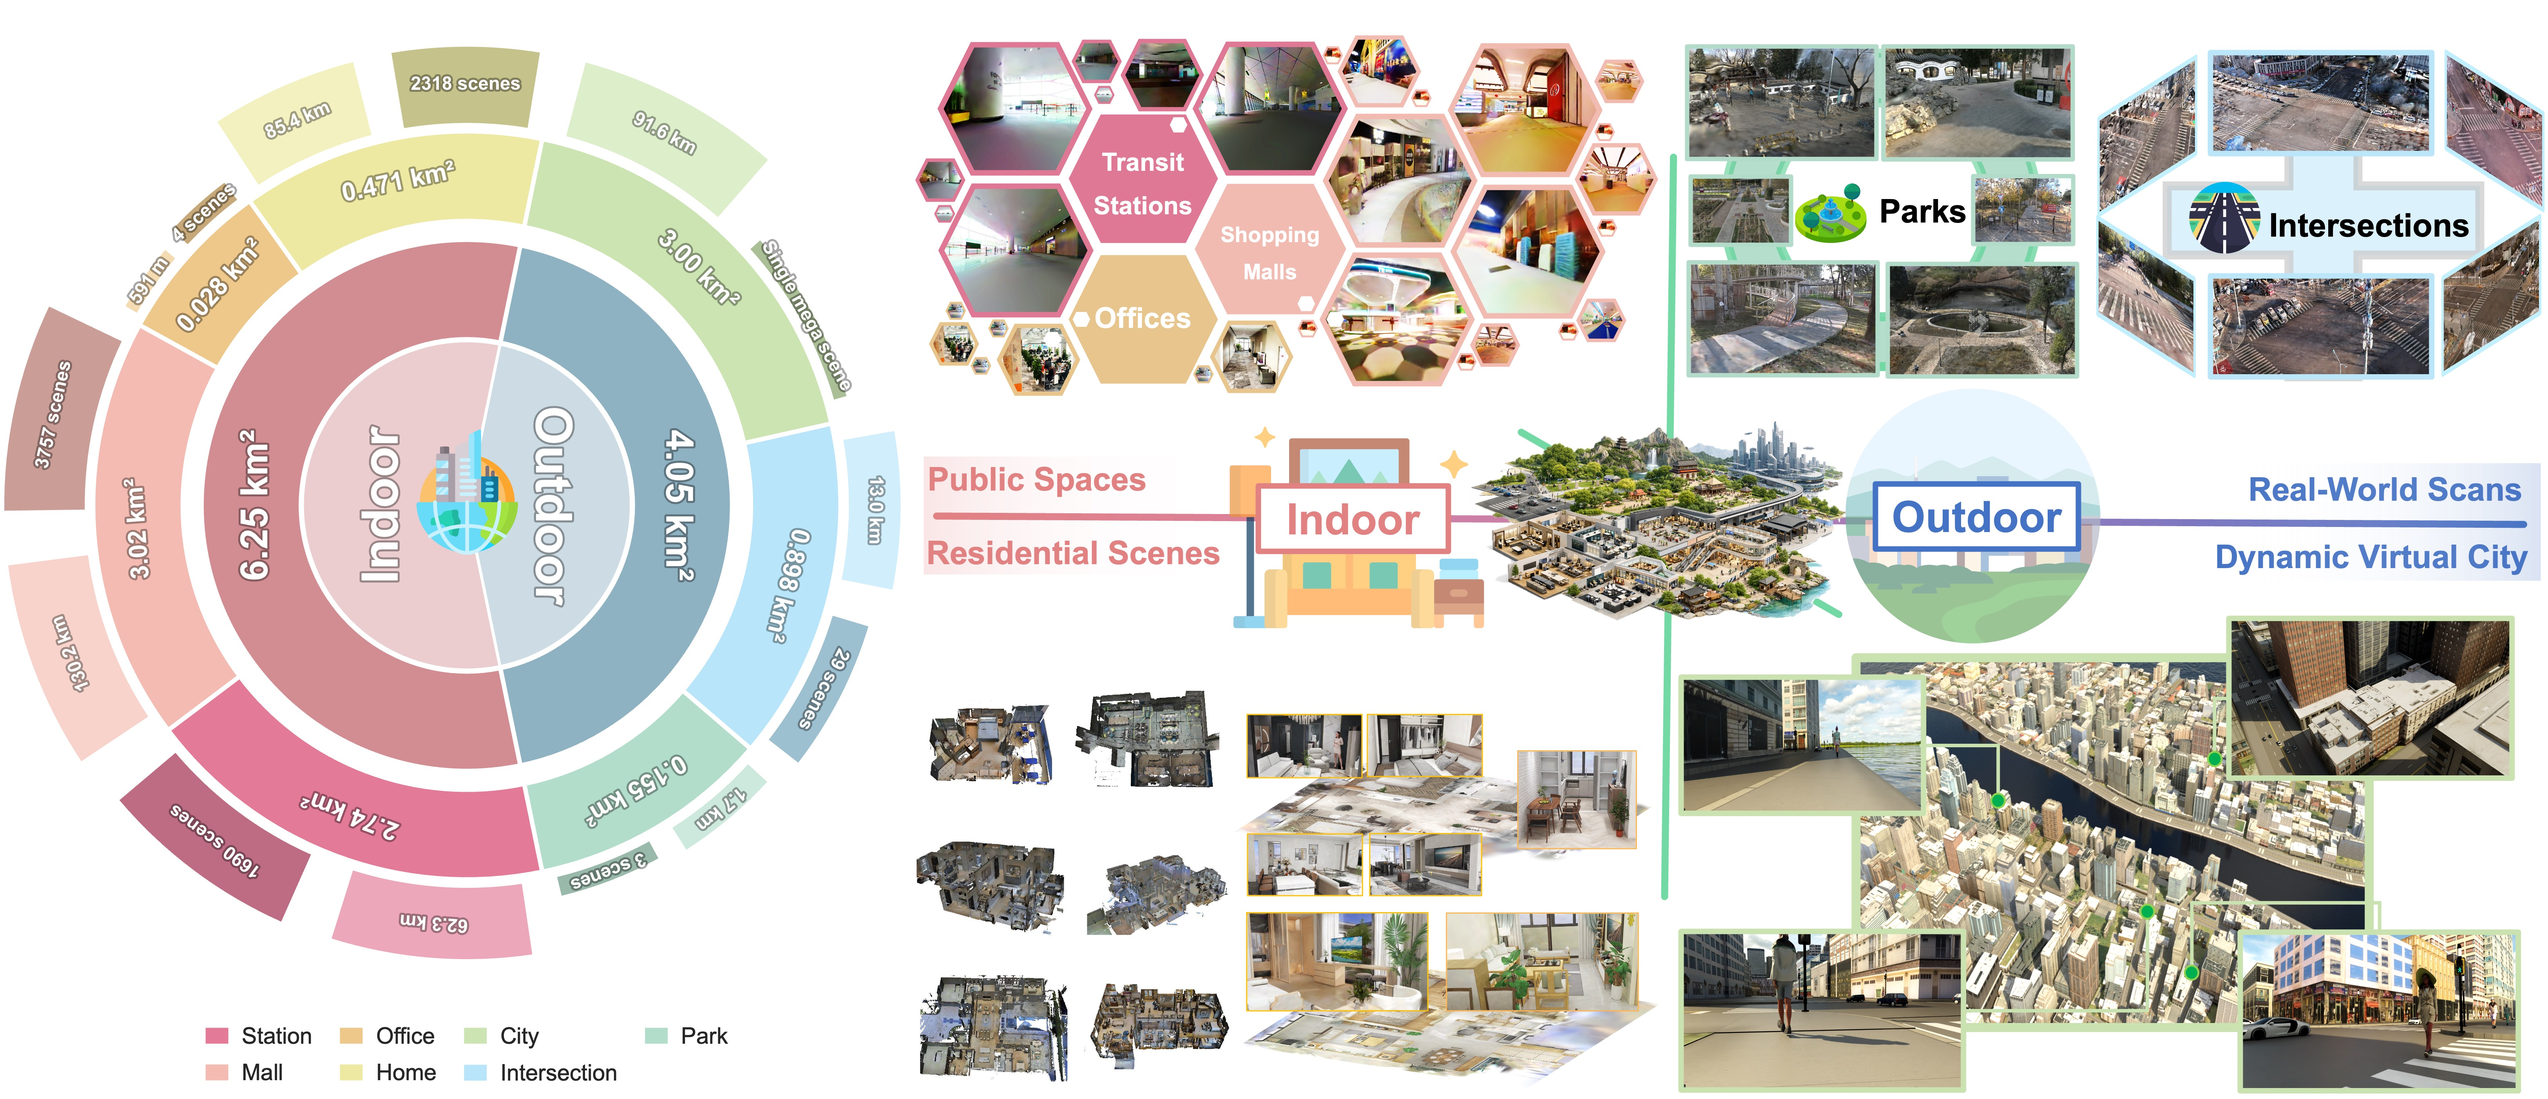
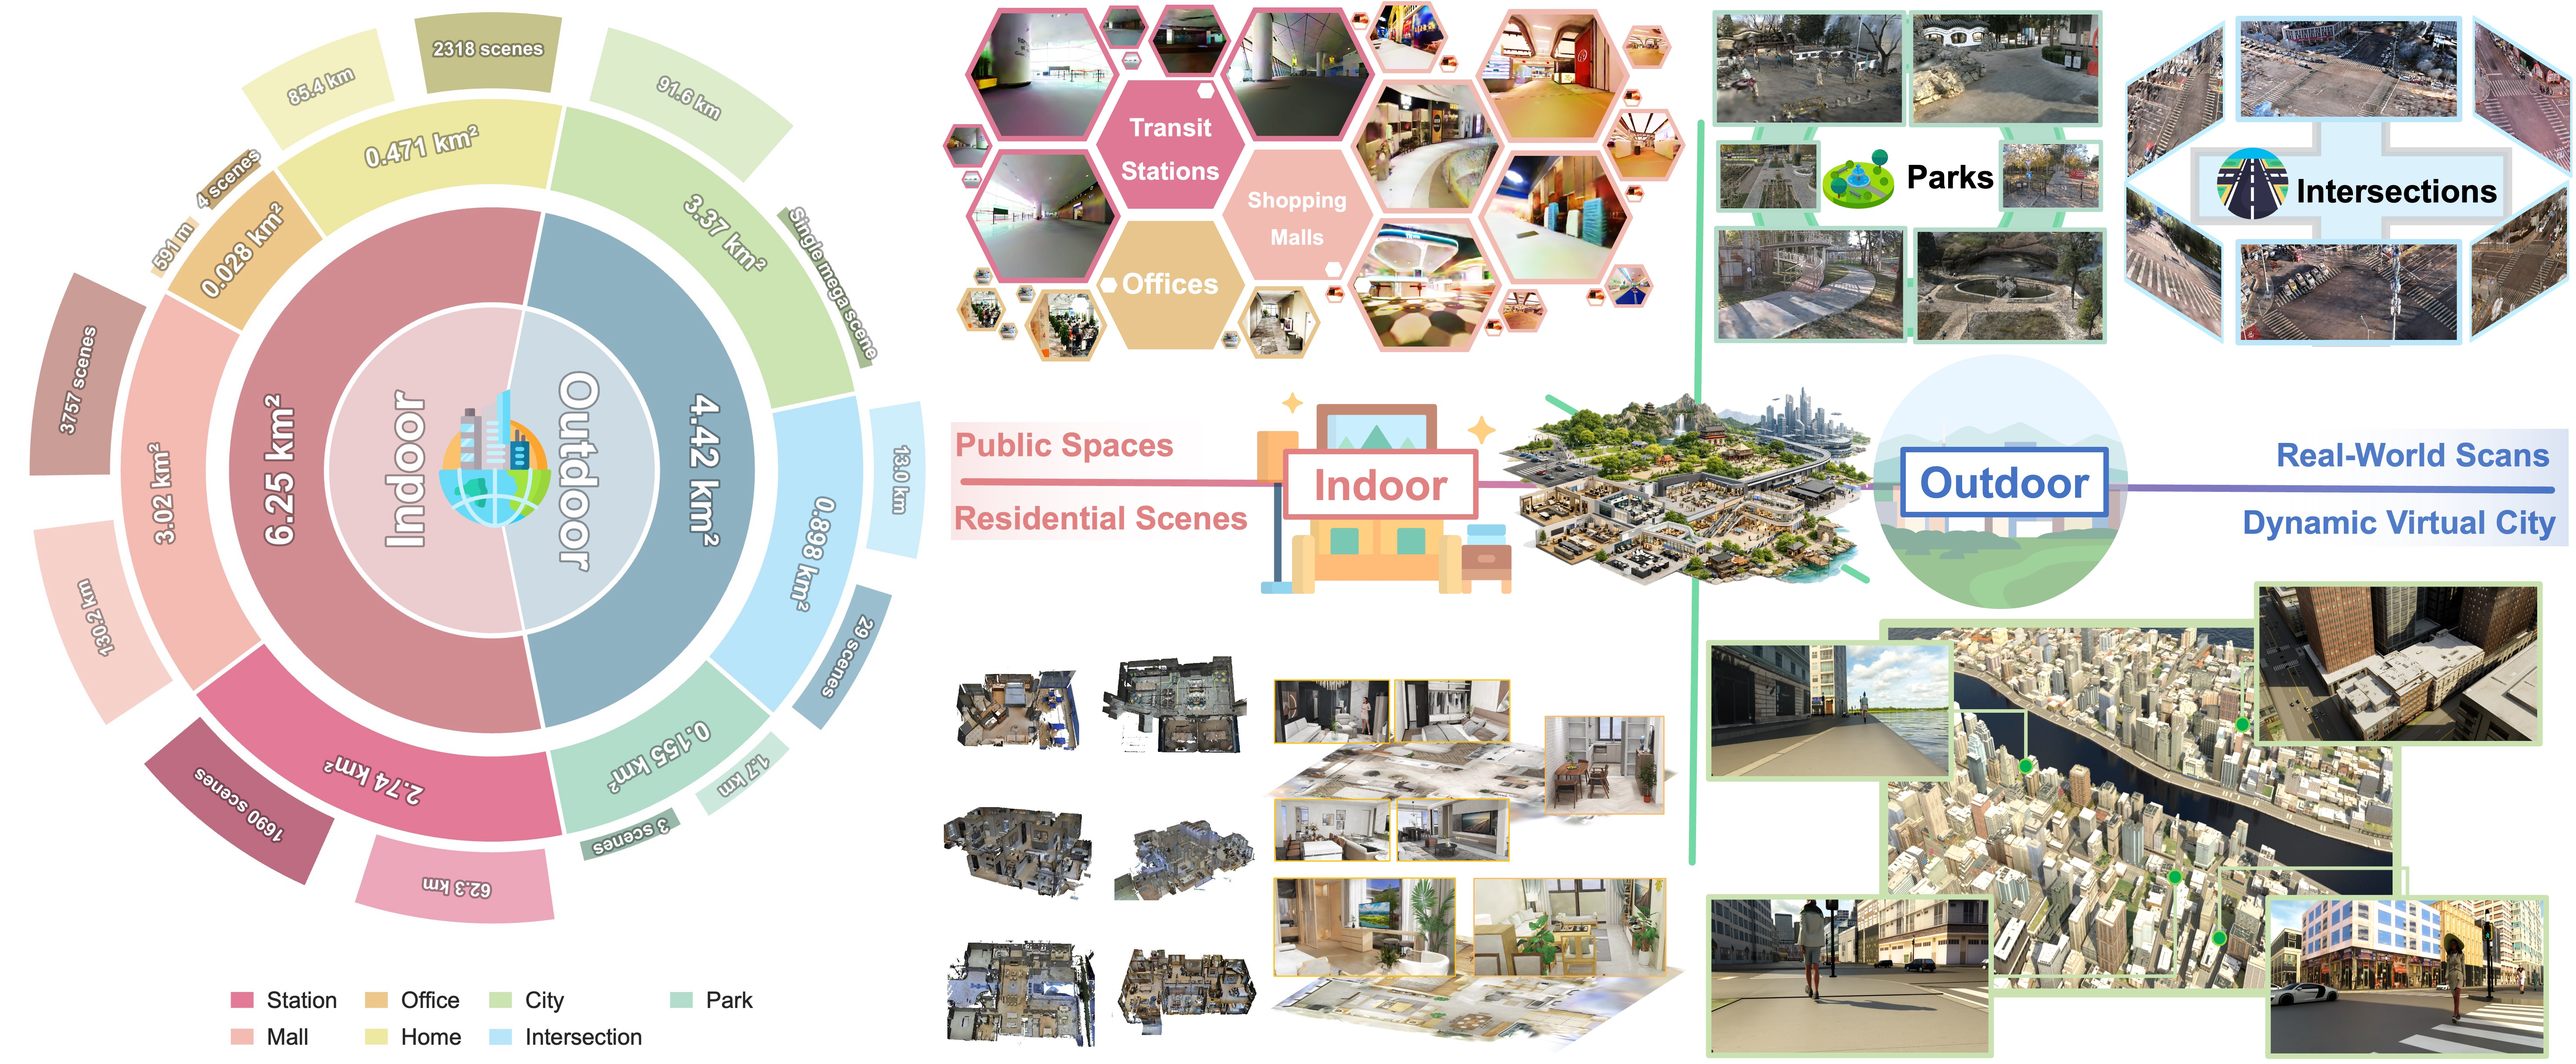
init pages

diff --git a/ABot-N0/index.html b/ABot-N0/index.html
@@ -1897,6 +1897,10 @@
             <div class="label">Unified Tasks</div>
         </div>
         <div class="hero-stat">
+            <div class="number" data-target="7" data-suffix="">0</div>
+            <div class="label">SOTA Benchmarks</div>
+        </div>
+        <div class="hero-stat">
             <div class="number" data-target="16.9" data-suffix="M">0</div>
             <div class="label">Expert Trajectories</div>
         </div>
@@ -1905,17 +1909,17 @@
             <div class="label">3D Scenes</div>
         </div>
         <div class="hero-stat">
-            <div class="number" data-target="7" data-suffix="">0</div>
-            <div class="label">SOTA Benchmarks</div>
+            <div class="number" data-target="5.0" data-suffix="M">0</div>
+            <div class="label">Reasoning Samples</div>
         </div>
         <div class="hero-stat">
-            <div class="number" data-target="10.3">0</div>
+            <div class="number" data-target="10.7">0</div>
             <div class="label">km² Coverage</div>
         </div>
     </div>
 
     <div class="hero-actions">
-        <a href="#" class="btn btn-primary"><i class="fas fa-file-pdf"></i> Read Paper</a>
+        <a href="https://github.com/amap-cvlab/ABot-Navigation/blob/main/ABot-N0_Technical_Report.pdf" target="_blank" class="btn btn-primary"><i class="fas fa-file-pdf"></i> Read Paper</a>
         <!-- <a href="#" class="btn btn-secondary"><i class="fab fa-github"></i> View Code</a> -->
         <a href="#visualization" class="btn btn-secondary"><i class="fas fa-play-circle"></i> Watch Demos</a>
     </div>
@@ -1942,7 +1946,7 @@
         </p>
         <br>
         <p class="abstract-text">
-            To support large-scale learning, we developed the <strong>ABot-N0 Data Engine</strong>, curating <strong>16.9M</strong> expert trajectories and <strong>5.0M</strong> reasoning samples across <strong>7,802</strong> high-fidelity 3D scenes (<strong>10.3 km²</strong>). ABot-N0 achieves new <strong>SOTA</strong> performance across <strong>7 benchmarks</strong>, significantly outperforming specialized models. Furthermore, our Agentic Navigation System integrates a planner with hierarchical topological memory, enabling robust, long-horizon missions in dynamic real-world environments.
+            To support large-scale learning, we developed the <strong>ABot-N0 Data Engine</strong>, curating <strong>16.9M</strong> expert trajectories and <strong>5.0M</strong> reasoning samples across <strong>7,802</strong> high-fidelity 3D scenes (<strong>10.7 km²</strong>). ABot-N0 achieves new <strong>SOTA</strong> performance across <strong>7 benchmarks</strong>, significantly outperforming specialized models. Furthermore, our Agentic Navigation System integrates a planner with hierarchical topological memory, enabling robust, long-horizon missions in dynamic real-world environments.
         </p>
 
         <!-- 5 Tasks -->
@@ -2037,7 +2041,7 @@
                 <div class="unit">3D Scenes</div>
             </div>
             <div class="data-highlight">
-                <div class="number">10.3 km²</div>
+                <div class="number">10.7 km²</div>
                 <div class="unit">Total Area Coverage</div>
             </div>
             <div class="data-highlight">
@@ -2059,14 +2063,14 @@
                     <div class="data-pillar-number">01</div>
                     <div class="data-pillar-meta">
                         <h3>High-Fidelity 3D Scene Ecosystem</h3>
-                        <p class="data-pillar-stats"><span class="dp-stat">7,802 Scenes</span><span class="dp-divider">·</span><span class="dp-stat">10.3 km²</span><span class="dp-divider">·</span><span class="dp-stat">384,754m Nav Graphs</span></p>
+                        <p class="data-pillar-stats"><span class="dp-stat">7,802 Scenes</span><span class="dp-divider">·</span><span class="dp-stat">10.7 km²</span><span class="dp-divider">·</span><span class="dp-stat">384,754m Nav Graphs</span></p>
                     </div>
                 </div>
                 <div class="data-pillar-body">
                     <div class="figure-block" style="margin: 0;">
                         <img src="static/images/datasource.jpg" alt="3D Scene Ecosystem & Data Sources">
                         <div class="fig-caption">
-                            <strong>3D Scene Ecosystem & Statistics.</strong> 7,802 high-fidelity 3D scenes covering 6.25 km² indoor (homes, offices, malls, stations) and 4.05 km² outdoor (intersections, parks, SocCity) environments. All scenes are annotated with traversable navigation graphs for collision-free trajectory synthesis.
+                            <strong>3D Scene Ecosystem & Statistics.</strong> 7,802 high-fidelity 3D scenes covering 6.25 km² indoor (homes, offices, malls, stations) and 4.42 km² outdoor (intersections, parks, SocCity) environments. All scenes are annotated with traversable navigation graphs for collision-free trajectory synthesis.
                         </div>
                     </div>
                 </div>
@@ -2592,7 +2596,7 @@
         <div class="section-header reveal">
             <div class="section-tag"><i class="fas fa-images"></i> Visualization</div>
             <h2 class="section-title">Deployment Visualization</h2>
-            <p class="section-desc">Real-world navigation trajectories and application scenarios across diverse environments.</p>
+            <p class="section-desc" style="white-space: nowrap;">Real-world navigation trajectories and application scenarios across diverse environments.</p>
         </div>
 
         <div class="vis-pillars">
@@ -2753,7 +2757,7 @@
      FOOTER
      ============================================ -->
 <footer class="footer">
-    <p>ABot-N0 &copy; 2025 AMAP CV Lab &nbsp;|&nbsp; <a href="#">Project Page</a> &nbsp;|&nbsp; <!-- <a href="#">GitHub</a> &nbsp;|&nbsp; --> <a href="#">Paper</a></p>
+    <p>ABot-N0 &copy; 2025 AMAP CV Lab &nbsp;
 </footer>
 
 <!-- ============================================

diff --git a/README.md b/README.md
@@ -1,1 +1,1 @@
-# ABot-Navi
+# ABot-Navigation
